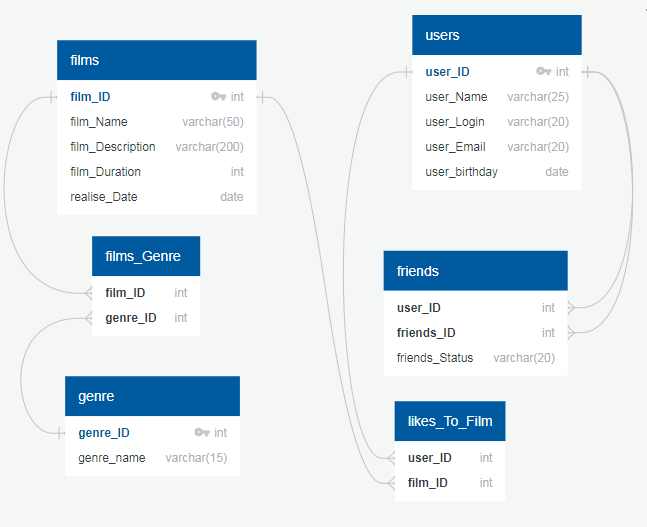
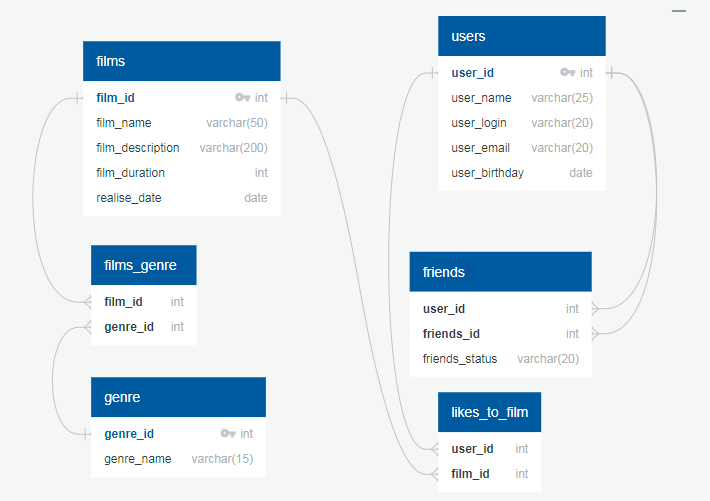
fix: Подправь схему базы данных

diff --git a/README.md b/README.md
@@ -8,42 +8,42 @@ Template repository for Filmorate project.
 
 ### Вот несколько запросов к базе данных для понимания ее устройства:
 
-_Получить список друзей для пользователя с User_ID = 1_
+_Получить список друзей для пользователя с user_id = 1_
 
 ```
-SELECT friends_ID
+SELECT friends_id
 FROM friends
-WHERE user_ID = 1 
-AND friends_Status LIKE 'confirmed';
+WHERE user_id = 1 
+AND friends_status LIKE 'confirmed';
 ```
 
-_Получить список общих друзей для пользователей с User_ID = 1 и User_ID = 2_
+_Получить список общих друзей для пользователей с user_id = 1 и User_ID = 2_
 
 ```
-SELECT f.Friends_ID as common
+SELECT f.friends_id as common
 FROM friends AS f
-WHERE user_ID = 2 
-AND friends_Status LIKE 'confirmed'
-AND f.common IN (SELECT friends_ID
+WHERE user_id = 2 
+AND friends_status LIKE 'confirmed'
+AND f.common IN (SELECT friends_id
                  FROM friends
-                 WHERE user_ID = 1);
+                 WHERE user_id = 1);
 ```
 
-_Получить кол-во лайков для фильма с Film_ID = 1_
+_Получить кол-во лайков для фильма с film_id = 1_
 
 ```
-SELECT COUNT(user_ID)
-FROM likes_To_Film
-WHERE film_ID = 1;
+SELECT COUNT(user_id)
+FROM likes_to_film
+WHERE film_id = 1;
 ```
 
 _Получить ТОП 5 залайканных фильма_
 
 ```
-SELECT film_ID,
-       COUNT(user_ID) AS likes
-FROM likes_To_Film
-GROUP BY film_ID
+SELECT film_id,
+       COUNT(user_id) AS likes
+FROM likes_to_film
+GROUP BY film_id
 ORDER BY likes DESC
 LIMIT 5;
 ```
